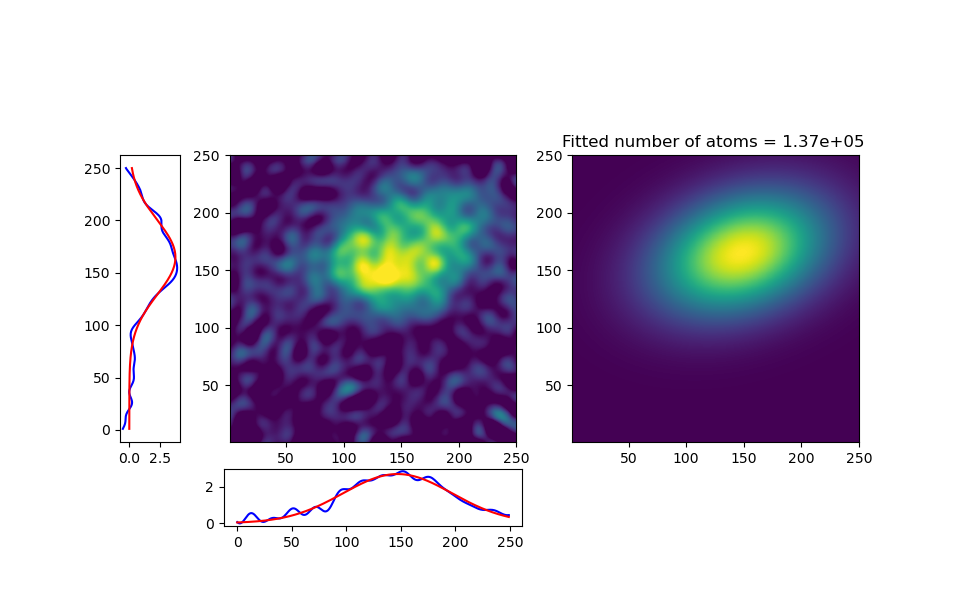
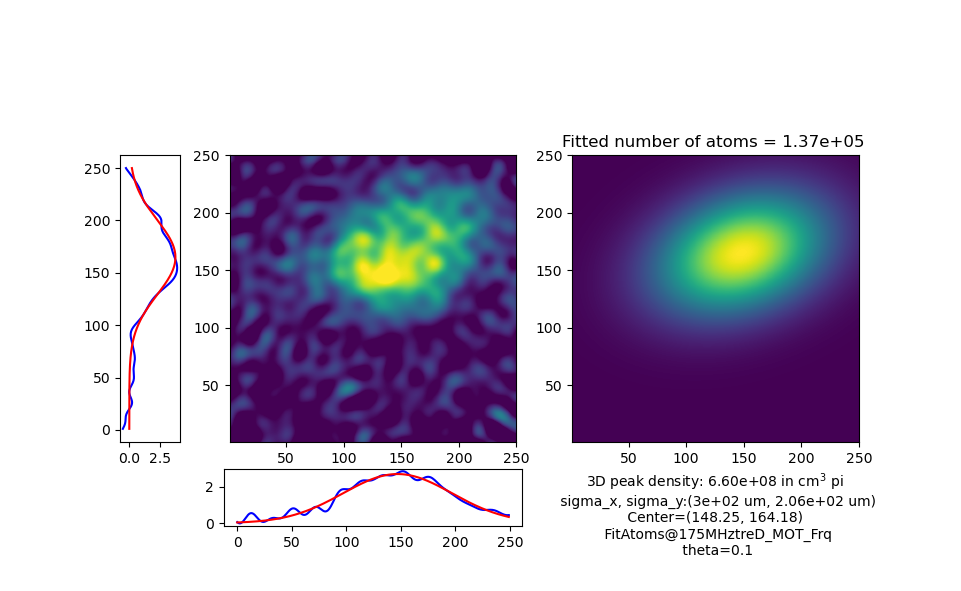
Working AbsorbAnalyser

Changed region(s): [[0.5931, 0.7919, 0.9053, 0.9442]]

diff --git a/analysislib/AbsorbAnalyser.py b/analysislib/AbsorbAnalyser.py
@@ -157,45 +157,33 @@ if True: #functions definition
         ax[2].plot(intx, 'b')
         ax[2].plot(gaux, 'r')
 
-        # sigma_z=sigma_y  # empirically to be checked
-
-        # AmpNpeak=amplitude*sigma_0
         sigma_x=sigma_x*pix
         sigma_y=sigma_y*pix
         sigma_z=sigma_y
 
         n_3D=fitN_of_atoms/(sigma_x*sigma_y*sigma_z*(2*np.pi)**(3/2))*1e-6 #in cm^3
         n_3D2=Npeak/(sqrt(2*np.pi)*sigma_z*pixArea)*1e-6 #in cm^3
-        print(sigma_x)
-        print(sigma_y)
-        print(fitN_of_atoms)
-        print(n_3D)
-        print(n_3D2)
-
-        # AmpNpeak=n_3D*sqrt(2*np.pi)*sigma_z*pixArea
-        # Ntot_fit=AmpNpeak/((sigma_x)*(sigma_y)*2*np.pi)
-        # # print("{:.2e}".format(Ntot_fit))
-        # print("this")
-        # print(np.sum(Ntot_fit))
-
-        # n_3D=amplitude/(sqrt(2*np.pi)*sigma_z*pixArea)
-
+        # print(sigma_x)
+        # print(sigma_y)
+        # print(fitN_of_atoms)
+        # print(n_3D)
+        # print(n_3D2)
 
         name = str('Fitted number of atoms = %s ' % ("{:.2e}".format(fitN_of_atoms)))
         plt.title(name)
         picname = "FitAtoms@" + str(value) + unity + scan_parameter
-        plt.xlabel(str('3D peak density: %s in cm$^3$ pi \n sigma_x, sigma_y:(%s um, %s um)\n Center=(%s, %s) \n %s\n theta=%s' %
+        plt.xlabel(str('3D peak density: %s in cm$^3$  \n sigma_x, sigma_y:(%s um, %s um)\n Center=(%s, %s) \n %s\n theta=%s pi' %
                     ("{:.2e}".format(n_3D2), "{:.0e}".format(sigma_x*1e6), "{:.2e}".format(sigma_y*1e6),
                         round(xo * 100) / 100, round((RY - yo) * 100) / 100, str(picname), round(theta * 100) / 100)))
         ax[3].imshow(fitdata, cmap='viridis', vmin=0, vmax=amplitude, extent=(x.min(), x.max(), y.min(), y.max()))
-
+        # plt.colorbar()
         plt.savefig(picname + ".png")
         main_waist = sigma_x
 
         plt.show()
 
         shot.save_result('number_of_atoms', fitN_of_atoms)
-        shot.save_result('peak_density', density)
+        shot.save_result('peak_density', n_3D)
         shot.save_result('main_waist', main_waist)
         print('fitted results saved')
 
@@ -299,7 +287,7 @@ if True: #functions definition
 scan_parameter='treD_MOT_Frq'
 unity='MHz'
 
-plotting=True #extra images
+plotting=False #extra images
 gauss_fit=True
 ######################
 

diff --git a/analysislib/Multi_Analyser.py b/analysislib/Multi_Analyser.py
@@ -27,7 +27,7 @@ number_of_atoms=tuple(AbAnalyser['number_of_atoms'])
 peak_density=tuple(AbAnalyser['peak_density'])
 main_waist=tuple(AbAnalyser['main_waist'])
 
-parameter_name =AbAnalyser['calibration'].iloc[-1]
+parameter_name ='treD_MOT_Frq' #AbAnalyser['scan_parameter'].iloc[-1]
 
 print('optimization parameter =', parameter_name)
 parameter=np.array(df[parameter_name])
